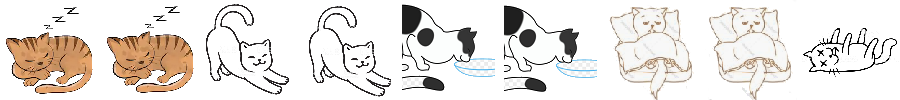
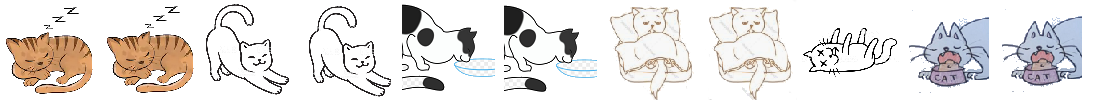
Eating state for outside cat

diff --git a/src/scenes/level.ts b/src/scenes/level.ts
@@ -42,6 +42,9 @@ export class Level extends SceneBase {
     private spaceBarDown = false;
     private isInBrain: boolean;
 
+    private drinkingInterval: NodeJS.Timeout;
+    private drinkingTimeout: NodeJS.Timeout;
+
     create(stateManager: StateManager) {
         this._stateManager = stateManager;
         this.add.image(this.gameWidth / 2, this.gameHeight / 2, 'background');
@@ -241,16 +244,30 @@ export class Level extends SceneBase {
         const durationOfEachDrink = 3 * 1000;
         const timeBetweenDrinks = 10 * 1000;
 
-        setInterval(() => {
+        this.drinkingInterval = setInterval(() => {
             this.setCatStatus(CatStatus.Drinking);
-            setTimeout(() => {
+            this.drinkingTimeout = setTimeout(() => {
                 this.setCatStatus(CatStatus.Awake);
             }, durationOfEachDrink)
         }, timeBetweenDrinks)
     }
 
+    private clearDrinkTimeouts = () => {
+        clearInterval(this.drinkingInterval);
+        clearTimeout(this.drinkingTimeout);
+    }
+
     private eatFish = () => {
-        this.fishes.generateFishRegularlyForAWhile();
+        const generateFishDurationInSeconds = 40;
+
+        this.fishes.generateFishRegularlyForNSeconds(generateFishDurationInSeconds);
+        this.setCatStatus(CatStatus.Eating);
+
+        this.clearDrinkTimeouts();
+
+        setTimeout(() => {
+            this.wakeUp();
+        }, generateFishDurationInSeconds * 1000)
     }
 
     public mapCatStatusToDecision = (status: CatStatus) => {

diff --git a/src/subscene/outsideCat.ts b/src/subscene/outsideCat.ts
@@ -50,6 +50,13 @@ export class OutsideCat extends Phaser.Physics.Arcade.Sprite {
             frames: [ { key: 'outside-cat', frame: 8 } ],
             frameRate: 2
         });
+
+        this.scene.anims.create({
+            key: 'eating',
+            frames: this.scene.anims.generateFrameNumbers('outside-cat', { start: 9, end: 10 }),
+            frameRate: 2,
+            repeat: -1
+        });
     }
 
     wakeUp = () => {
@@ -63,6 +70,13 @@ export class OutsideCat extends Phaser.Physics.Arcade.Sprite {
       if (this.status === CatStatus.Awake) {
         this.status = CatStatus.Drinking;
         this.anims.play('drinking', true);
+      }
+    }
+
+    eat = () => {
+      if (this.status !== CatStatus.Eating) {
+        this.status = CatStatus.Eating;
+        this.anims.play('eating', true);
       }
     }
 

diff --git a/src/gameObjects/fishes.ts b/src/gameObjects/fishes.ts
@@ -17,10 +17,10 @@ export default class Fishes extends StaticGroup {
         this.handleFishKeyBeingPressed();
     }
 
-    public generateFishRegularlyForAWhile = () => {
+    public generateFishRegularlyForNSeconds = (durationInSeconds: number) => {
         // Not exact, but it doesn't matter.
         const ticksPerSecond = 60;
-        for (let delayInSeconds = 10; delayInSeconds < 50; delayInSeconds += 10) {
+        for (let delayInSeconds = 10; delayInSeconds <= durationInSeconds; delayInSeconds += 10) {
             this.scene.stateManager.handleEvent({
                 type: 'PLACE_FISH',
                 id: this.scene.stateManager.generateGloballyUniqueId(),

diff --git a/src/subscene/outsideView.ts b/src/subscene/outsideView.ts
@@ -21,6 +21,7 @@ export default class OutsideView {
         switch (status) {
             case CatStatus.Awake: this.cat.wakeUp(); break;
             case CatStatus.Drinking: this.cat.drink(); break;
+            case CatStatus.Eating: this.cat.eat(); break;
             case CatStatus.Dead: this.cat.die(); break;
         }
     }
